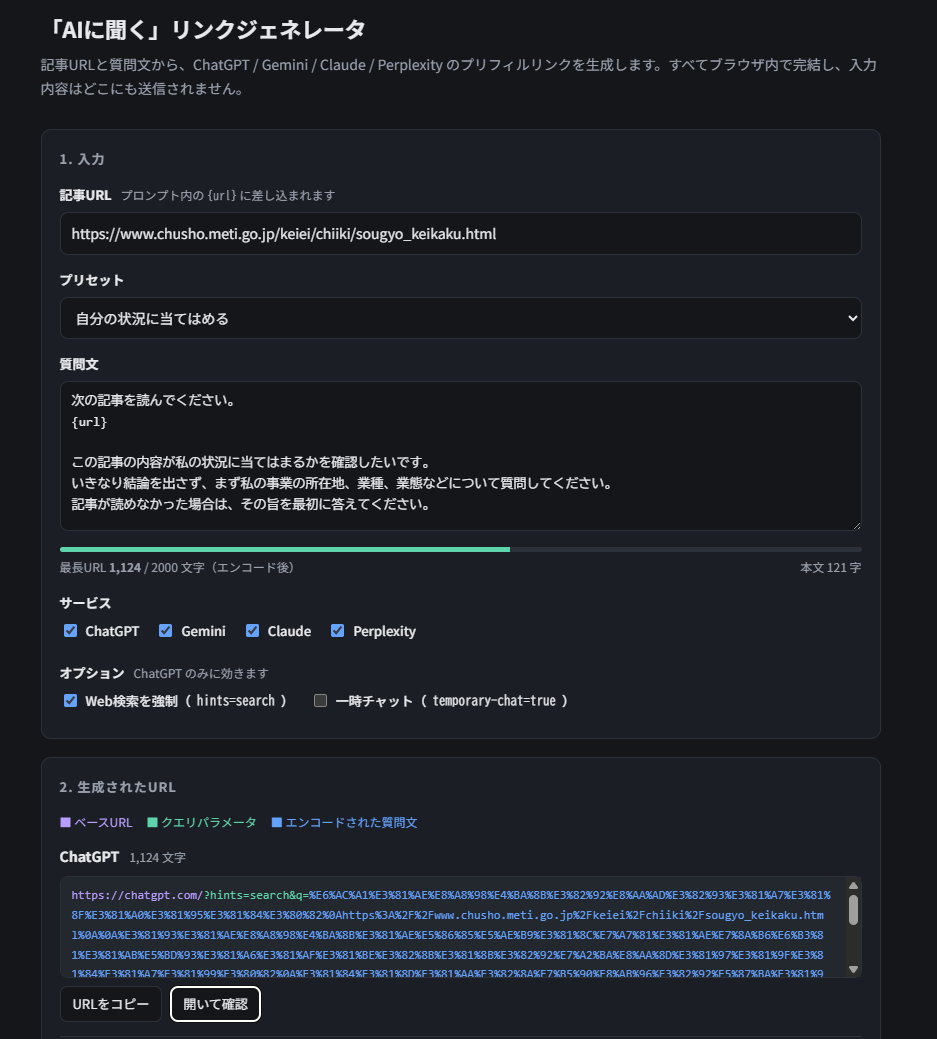
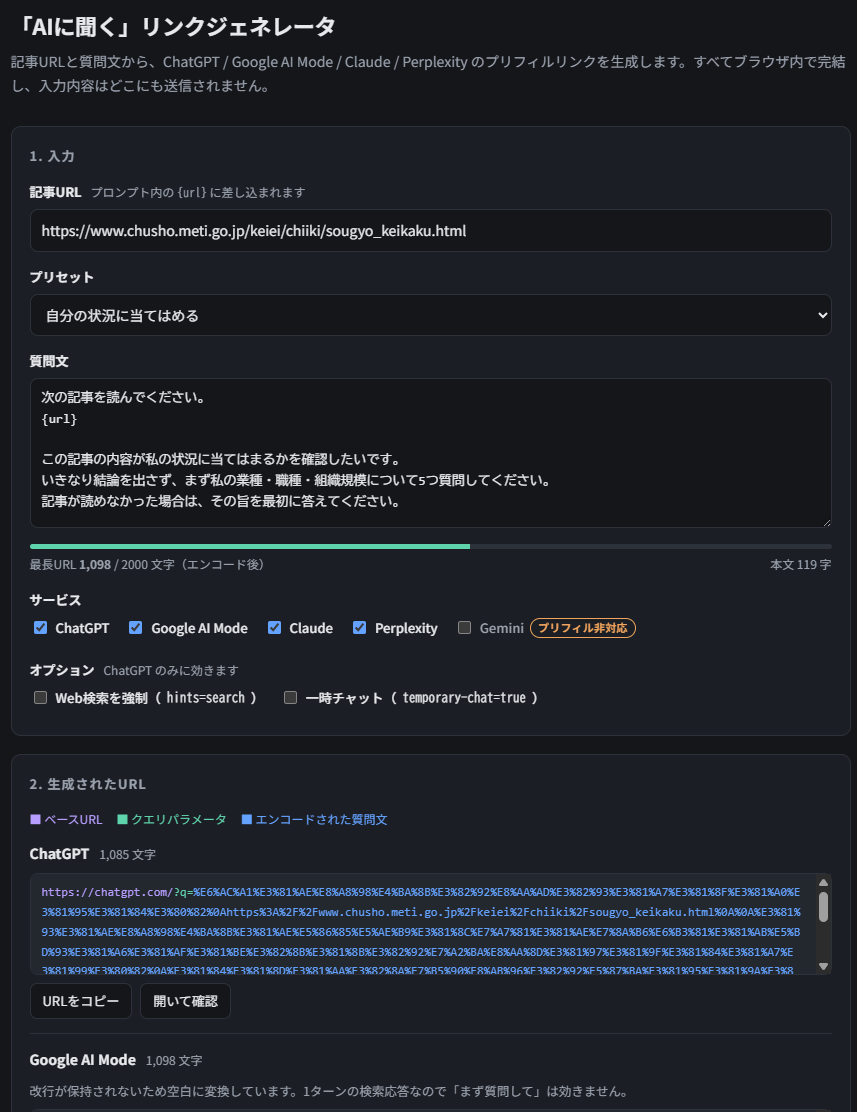
generator.png を AI Mode 対応後のUIで差し替え
Google AI Mode / Gemini の非対応バッジ / AI Mode の注記が写った状態に更新。
キャプションもその内容に合わせた。

diff --git a/articles/ask-ai-prefill-links.md b/articles/ask-ai-prefill-links.md
@@ -253,8 +253,8 @@ HTML。`target="_blank"` と `rel="noopener"` を付けます。
 
 HTML1枚です。外部通信もビルドも要らないので、保存すればオフラインでも動きます。入力した質問文もブラウザの外に出ません。
 
-![リンクジェネレータの画面。記事URLと質問文を入れると、生成されたURLがベースURL・クエリパラメータ・エンコードされた質問文の3色に分かれて表示される](/images/ask-ai/generator.png)
-*URLの構造を色分けして出してます。上のメーターは最長URLの文字数で、2000字に近づくと色が変わる*
+![リンクジェネレータの画面。記事URLと質問文を入れると、生成されたURLがベースURL・クエリパラメータ・エンコードされた質問文の3色に分かれて表示される。サービス欄では Gemini に「プリフィル非対応」のバッジが付いている](/images/ask-ai/generator.png)
+*URLの構造を色分けして出してます。上のメーターは最長URLの文字数で、2000字に近づくと色が変わる。Gemini は既定でオフ、AI Mode には改行が落ちる旨の注記が出ます*
 
 コアはこれだけです。
 

diff --git a/README.md b/README.md
@@ -114,5 +114,5 @@ published: false   # true にすると公開される
       → `generator.png`（7章・ツール画面） / `prefilled-result.png`（7章末・踏んだ結果）
 - [x] 各AIサービスの `?q=` を実際に踏んで確認（2026-08-15）
       → ChatGPT / Claude / Perplexity は動作。Gemini のみ非対応 → Google AI Mode に差し替え
-- [ ] `images/ask-ai/generator.png` を撮り直す（サービス欄が Gemini のままの旧UI）
+- [x] `images/ask-ai/generator.png` を AI Mode 対応後のUIで撮り直し（2026-08-15）
 - [ ] `published: true` に変更
